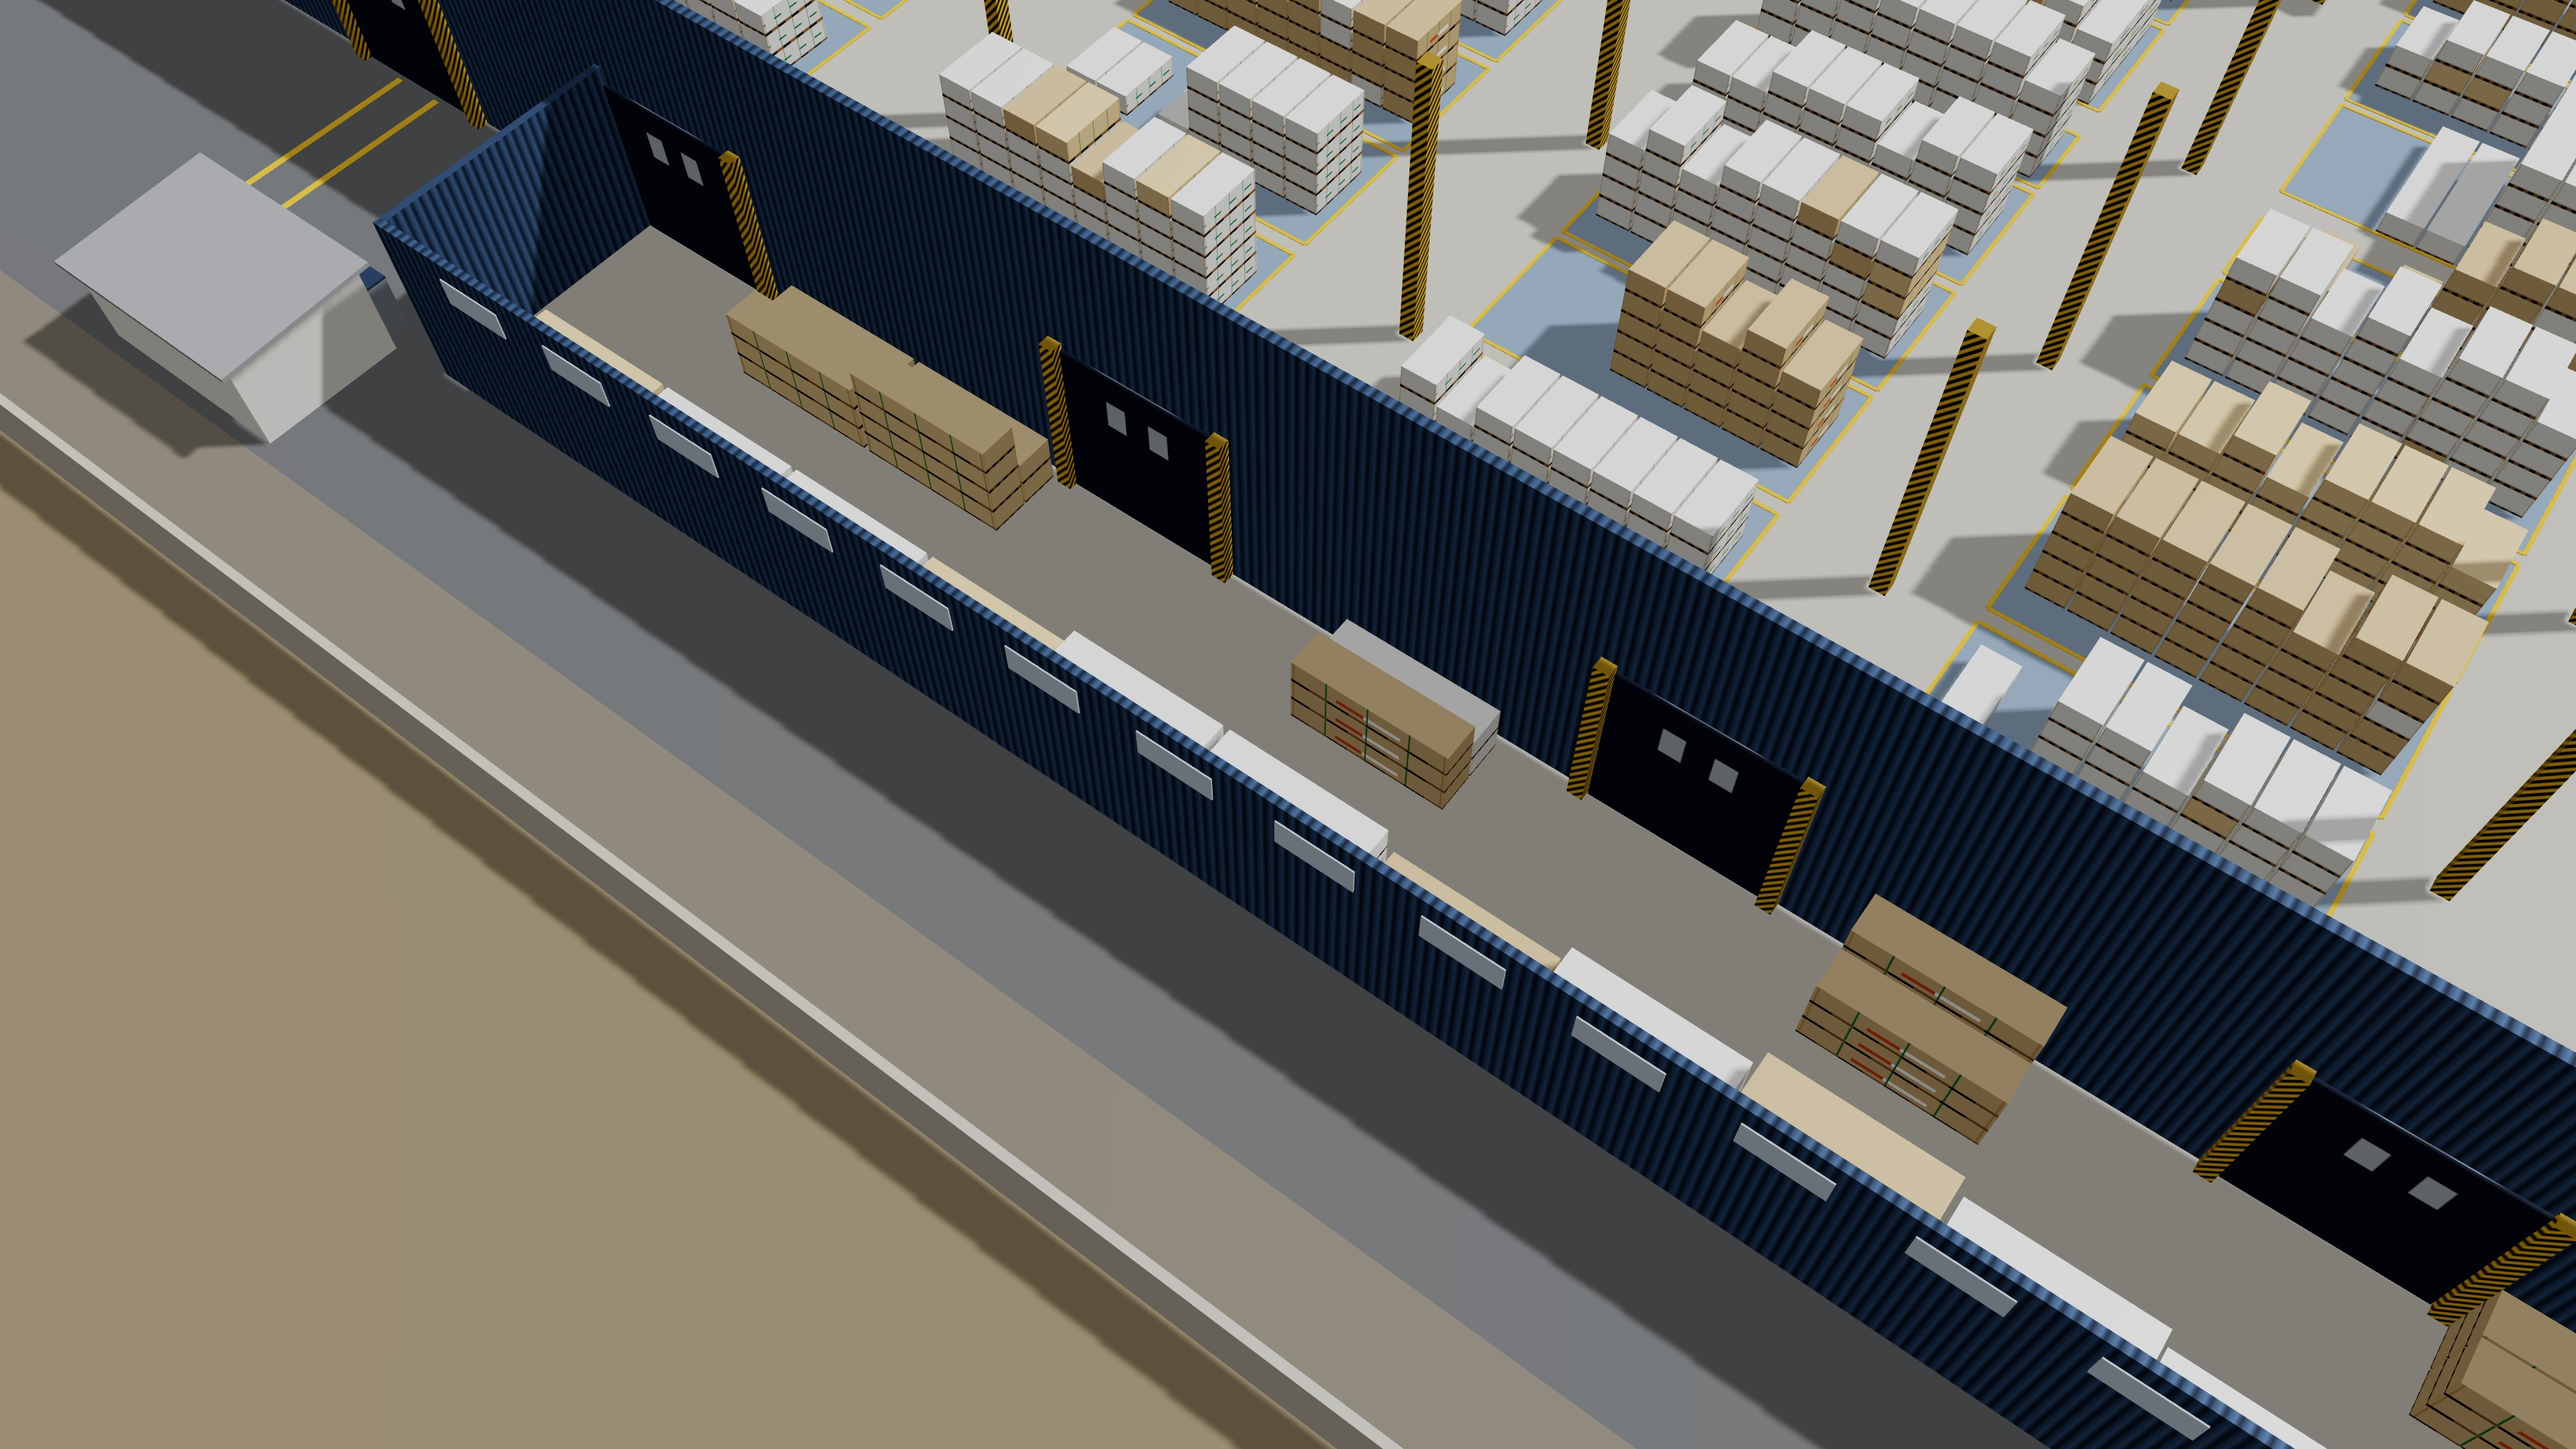
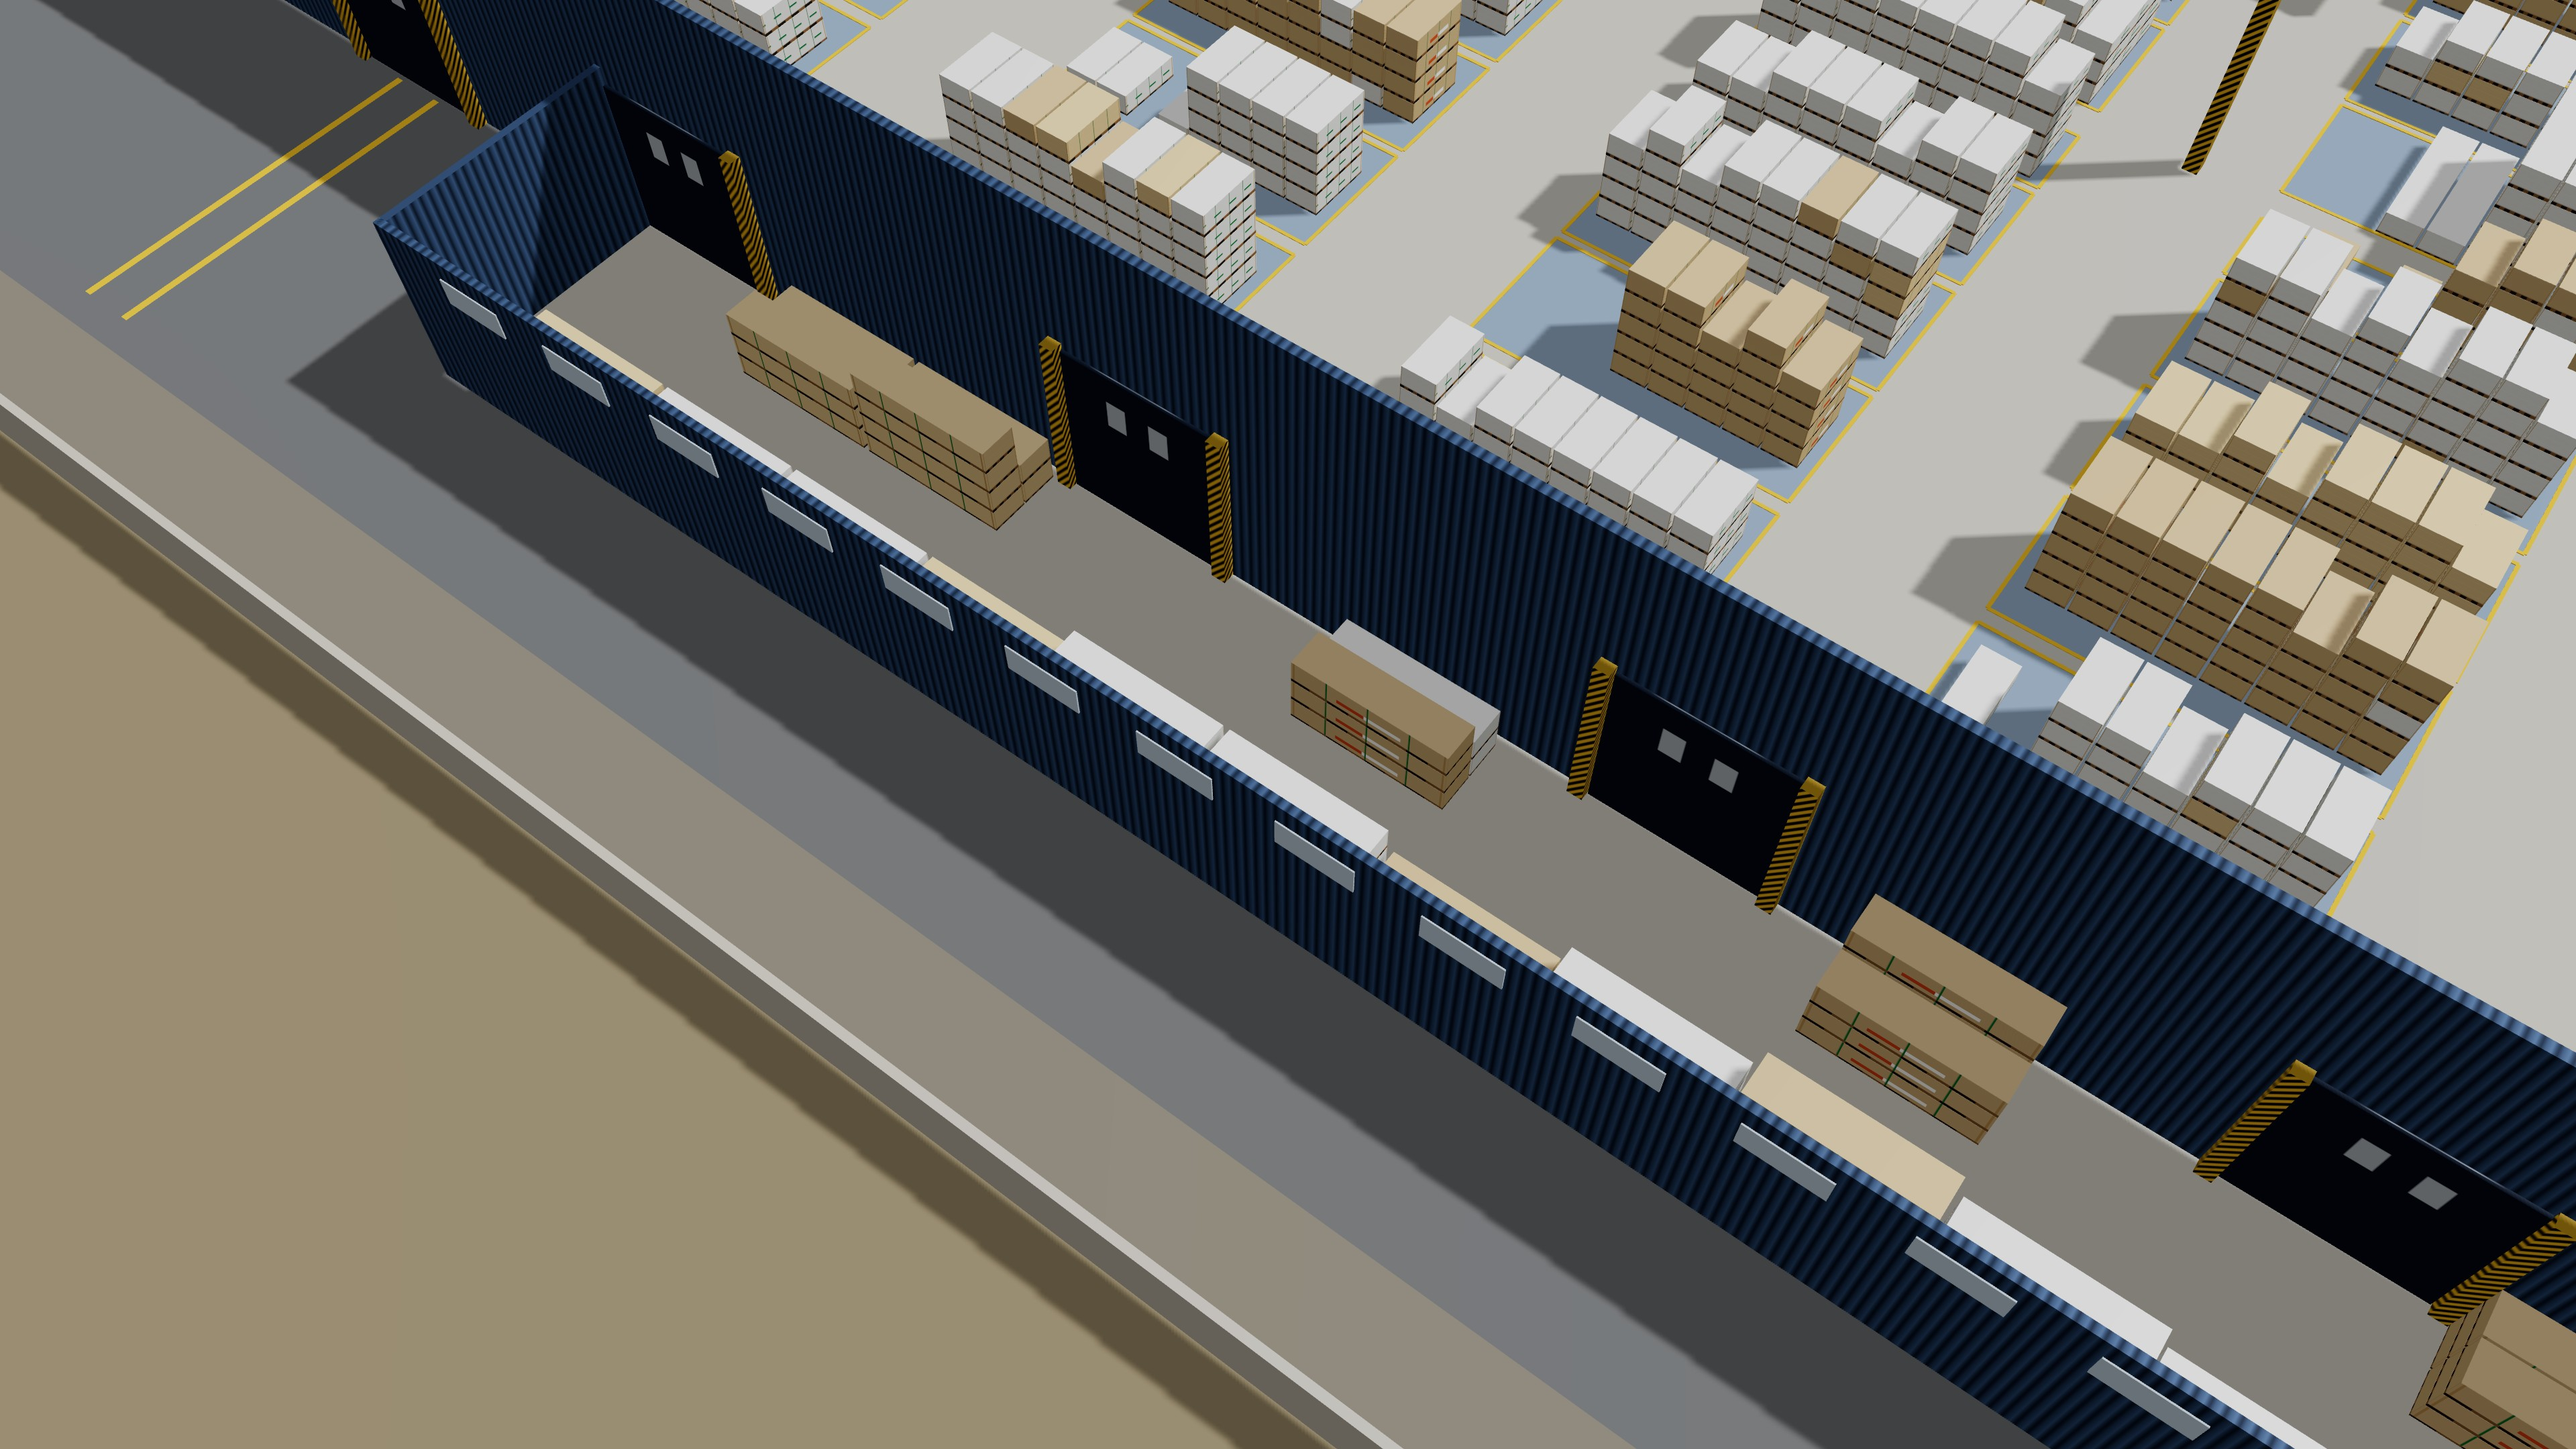
Quita la caseta del patio trasero y deja una sola fila de pilares
- Pilares solo en la mitad de la bodega, de Cervantes a Macaya
- Portones traseros visibles también desde el interior, uno por pasillo
- Elimina la caseta del patio trasero
- Renders actualizados

Claude-Session: https://claude.ai/code/session_013qYt4wV63U82gmHjwDRceP

diff --git a/index.html b/index.html
@@ -253,7 +253,6 @@ const R = {
   segC:    { x0: 0.4,  x1: 6,    z0: 45.4,  z1: 49.7,   h: 0.4 },
   segM:    { x0: 94.4, x1: 99.6, z0: 28.3,  z1: 32.6,   h: 0.4 },
   garAlero:{ x0: 91.4, x1: 93.2, z0: 59.2,  z1: 61.0,   h: 2.6 },
-  casetaT: { x0: 71,   x1: 78,   z0: 131.2, z1: 135.8,  h: 3.4 },
   peatonal:{ x0: 88.6, x1: 90.6, z0: -0.2,  z1: 2.4,    h: 2.6 },
 };
 const ZONES = {
@@ -285,8 +284,6 @@ const ZONES = {
              note: 'Área verde al costado de los camarines, entre la oficina y el camarín de mujeres. El sendero peatonal llega hasta aquí.', short: 'junto a camarines' },
   garAlero:{ name: 'Garita bajo el alero', dims: 'esquina del alero, cerca del portón Macaya', area: null, color: '#eef1f3',
              note: 'Garita de guardias bajo el alero, en la esquina del fondo junto al muro de la bodega y cerca del portón Macaya. Es una caseta blanca prefabricada, de unos 1,8 × 1,8 m.', short: 'esquina alero' },
-  casetaT: { name: 'Caseta patio trasero', dims: 'frente al portón trasero 5', area: null, color: '#f1f1ee',
-             note: 'Construcción blanca en el patio trasero, frente a la salida del portón 5, con jaulas de cilindros al frente. El uso está por confirmar.', short: 'patio trasero' },
   peatonal:{ name: 'Portón peatonal', dims: 'entre la garita de cámaras y la oficina', area: null, color: '#f2c230',
              note: 'Acceso peatonal desde calle Pedro Montt, entre la garita de cámaras y la oficina. Entra directo a la zona de descanso. Ancho supuesto: 2 m.', short: 'a Pedro Montt' },
   segC:    { name: 'Zona segura Cervantes', dims: 'al costado del portón Cervantes', area: null, color: '#2e9d57',
@@ -527,11 +524,15 @@ const wallMats = [];
     box(site, 5.0, 0.02, 1.6, '#e5a900', x, 0.06, B.z0 - 1.0, { cast: false });
     label(site, `Portón ${i + 1}`, 'lbl tag', x, 6.4, B.z0 - 0.3);
     box(site, 5.0, 5.4, 0.12, null, x, 2.7, B.z1 + 0.06, { material: backDoorM, zone: 'bodega' });
+    box(site, 5.0, 5.4, 0.08, null, x, 2.7, B.z1 - 0.34, { material: backDoorM, cast: false });
+    box(site, 5.0, 5.4, 0.08, null, x, 2.7, B.z0 + 0.34, { material: openM, cast: false });
+    [-1, 1].forEach(sd => { box(site, 0.35, 5.6, 0.3, null, x + sd * 2.7, 2.8, B.z1 - 0.45, { material: jambM, cast: false }); box(site, 0.35, 5.6, 0.3, null, x + sd * 2.7, 2.8, B.z0 + 0.45, { material: jambM, cast: false }); });
+    label(site, `Portón trasero ${i + 1}`, 'lbl tag', x, 6.4, B.z1 + 0.3);
     [-1, 1].forEach(sd => box(site, 0.45, 5.6, 0.45, null, x + sd * 2.75, 2.8, B.z1 + 0.15, { material: jambM }));
   });
-  // interior columns at the nave lines, painted with hazard stripes
+  // one row of columns across the middle of the warehouse (Cervantes → Macaya), hazard-striped
   const colM = hazard(10);
-  for (let i = 1; i < 6; i++) for (let j = 1; j < 6; j++) box(site, 0.5, H, 0.5, null, B.x0 + i * (bw / 6), H / 2, B.z0 + j * (bd / 6), { material: colM });
+  for (let i = 1; i < 6; i++) box(site, 0.5, H, 0.5, null, B.x0 + i * (bw / 6), H / 2, bcz, { material: colM });
   roofG = new THREE.Group(); site.add(roofG);
   const naves = 6, nw = bw / naves, rise = 2.5, roofMat = mat('#55698a', { roughness: 0.6, metalness: 0.25 });
   const sky = mat('#eef3f8', { emissive: '#b8c8da', emissiveIntensity: 0.25, roughness: 0.3 });
@@ -630,16 +631,10 @@ const wallMats = [];
     box(site, 0.05, 1.0, 1.0, '#1f2a36', G2.x0 - 0.03, 1.6, gz, { cast: false });
     box(site, 0.18, 1.0, 0.18, '#d6362b', G2.x0 - 0.5, 0.5, G2.z0 - 0.4);
   }
-  // --- Caseta del patio trasero + yellow pedestrian lines from portón 5
+  // --- Yellow pedestrian lines from portón trasero 5 into the patio trasero
   {
-    const C2 = R.casetaT, ccx = (C2.x0 + C2.x1) / 2, ccz = (C2.z0 + C2.z1) / 2;
-    rbox(site, C2, 3.0, '#f1f1ee', 0, { zone: 'casetaT' });
-    const rf = new THREE.Mesh(new THREE.BoxGeometry(C2.x1 - C2.x0 + 0.5, 0.15, C2.z1 - C2.z0 + 0.6), mat('#c9ccd0', { metalness: 0.4 }));
-    rf.position.set(ccx, 3.2, ccz); rf.rotation.x = 0.06; rf.castShadow = true; site.add(rf);
-    box(site, 1.0, 2.1, 0.06, '#5b6470', ccx + 1.5, 1.05, C2.z0 - 0.03, { cast: false });
-    [ccx - 2.4, ccx - 1.3].forEach(x => { box(site, 1.0, 1.8, 0.8, '#9aa3ad', x, 0.95, C2.z0 - 0.5); box(site, 1.02, 0.08, 0.82, '#3a4f6e', x, 1.86, C2.z0 - 0.5); });
-    floor(site, { x0: DOORS[4] - 1.0, x1: DOORS[4] - 0.75, z0: R.bodega.z1 + 0.3, z1: C2.z0 - 1 }, null, 0.06, null, mat('#f2c230'));
-    floor(site, { x0: DOORS[4] + 0.75, x1: DOORS[4] + 1.0, z0: R.bodega.z1 + 0.3, z1: C2.z0 - 1 }, null, 0.06, null, mat('#f2c230'));
+    floor(site, { x0: DOORS[4] - 1.0, x1: DOORS[4] - 0.75, z0: R.bodega.z1 + 0.3, z1: R.trasero.z1 - 1 }, null, 0.06, null, mat('#f2c230'));
+    floor(site, { x0: DOORS[4] + 0.75, x1: DOORS[4] + 1.0, z0: R.bodega.z1 + 0.3, z1: R.trasero.z1 - 1 }, null, 0.06, null, mat('#f2c230'));
   }
 
   // --- Zonas seguras al costado de ambos portones
@@ -718,7 +713,6 @@ const wallMats = [];
   lbl('segC', 3.2, 2.4, 47.5);
   lbl('segM', 97, 2.4, 30.4);
   lbl('garAlero', 92.3, 4.4, 60.1);
-  lbl('casetaT', 74.5, 5.2, 133.5);
   label(site, 'Sendero peatonal', 'lbl tag', 40, 1.2, 1.3);
   label(site, 'Oficina', 'lbl tag', (of.x0 + of.x1) / 2, 4.8, 6.5);
   label(site, 'Camarines · Pañol · Camarín mujer', 'lbl tag', 89, 4.4, 20.6);
@@ -1039,7 +1033,7 @@ function applyToggles() {
 $('#zone-rows').innerHTML = ORDER.map(id => {
   const Z = ZONES[id];
   return `<tr data-id="${id}" tabindex="0"><td class="sw"><i style="background:${Z.color}"></i></td><td>${Z.name}</td><td class="dm">${Z.dims}</td><td class="ar">${fmt(Z.area, Z.area % 1 ? 2 : 0)} m²</td></tr>`;
-}).join('') + ['gate', 'garita', 'banos', 'descanso', 'camaras', 'verde', 'peatonal', 'segC', 'segM', 'garAlero', 'casetaT'].map(id => `<tr data-id="${id}" tabindex="0" class="extra"><td class="sw"><i style="background:${ZONES[id].color}"></i></td><td>${ZONES[id].name}</td><td class="dm">${ZONES[id].short}</td><td class="ar">—</td></tr>`).join('');
+}).join('') + ['gate', 'garita', 'banos', 'descanso', 'camaras', 'verde', 'peatonal', 'segC', 'segM', 'garAlero'].map(id => `<tr data-id="${id}" tabindex="0" class="extra"><td class="sw"><i style="background:${ZONES[id].color}"></i></td><td>${ZONES[id].name}</td><td class="dm">${ZONES[id].short}</td><td class="ar">—</td></tr>`).join('');
 const onRow = e => { const tr = e.target.closest('tr'); if (tr) selectZone(tr.dataset.id); };
 $('#zone-rows').addEventListener('click', onRow);
 $('#zone-rows').addEventListener('keydown', e => { if (e.key === 'Enter' || e.key === ' ') { e.preventDefault(); onRow(e); } });

diff --git a/README.md b/README.md
@@ -23,6 +23,7 @@ Renders en 4K (3840 × 2160) en la carpeta `renders/`:
 | Bajo el alero (cerchas y portones) | `renders/6-alero.jpg` |
 | Bodega pequeña y portones traseros | `renders/7-bodega-pequena.jpg` |
 | Garita bajo el alero | `renders/8-garita-alero.jpg` |
+| Muro del fondo con portones traseros | `renders/9-fondo.jpg` |
 
 Para generar capturas en alta resolución desde el navegador, abre la página con `#hd` al final de la dirección (sombras y resolución más altas).
 
@@ -49,7 +50,6 @@ Para generar capturas en alta resolución desde el navegador, abre la página co
 
 - Alturas: bodega de 10 m al alero y 12,5 m en la cumbrera, y alero a 8 m.
 - Tamaños de la garita, los baños, la garita de cámaras y las zonas seguras.
-- Uso de la caseta blanca del patio trasero.
 - A lo largo, las zonas suman 136,3 m, frente a los 140 m de Cervantes.
 
 ## Cómo editar
